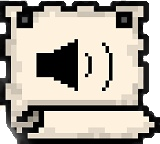
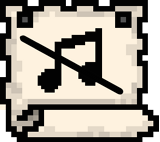
ajustes de botones de musica eh?

diff --git a/core/src/mx/itesm/videojuegos/Pausa.java b/core/src/mx/itesm/videojuegos/Pausa.java
@@ -70,16 +70,9 @@ public class Pausa extends Stage { ;
             musicaOn = true;
         }else{musicaOn = false;}
 
-        TextureRegionDrawable trdMusic = new TextureRegionDrawable(new TextureRegion(new Texture("menus/Opciones/musicOn.png")));
-        TextureRegionDrawable trdMusic_pr = new TextureRegionDrawable(new TextureRegion(new Texture("menus/Opciones/soundOn.png")));
+        TextureRegionDrawable trdMusic = new TextureRegionDrawable(new TextureRegion(new Texture("menus/Opciones/soundOn.png")));
         final ImageButton btnMute;
-        if(musicaOn){
-            btnMute = new ImageButton(trdMusic);
-        }else{
-            btnMute = new ImageButton(trdMusic_pr);
-        }
-
-
+        btnMute = new ImageButton(trdMusic);
         btnMute.setPosition(450, 315);
 
         btnMute.addListener(new ClickListener(){
@@ -88,24 +81,13 @@ public class Pausa extends Stage { ;
 
                 super.clicked(event, x, y);
                 //INSTRUCCIONES
-
-                if ( musicaOn = true){
-                    juego.playMusic = false;
-                    musica.stop();
-                    musicaOn = false;
-
-
-                }else{
-                    juego.playMusic = true;
-                    musica.play();
-                    musicaOn =true;
-                    
-                }
+                musica.stop();
+                musicaOn = false;
             }
         }
         );
 
-        TextureRegionDrawable trdMusicOn = new TextureRegionDrawable(new TextureRegion(new Texture("menus/Opciones/soundOn.png")));
+        TextureRegionDrawable trdMusicOn = new TextureRegionDrawable(new TextureRegion(new Texture("menus/Opciones/musicOn.png")));
         ImageButton btnSonido = new ImageButton(trdMusicOn);
         btnSonido.setPosition(670, 315);
 
@@ -125,10 +107,6 @@ public class Pausa extends Stage { ;
         this.addActor(btnExit);
         this.addActor(btnMute);
         this.addActor(btnSonido);
-
-
-
-
         Gdx.input.setInputProcessor(this);
 
 
